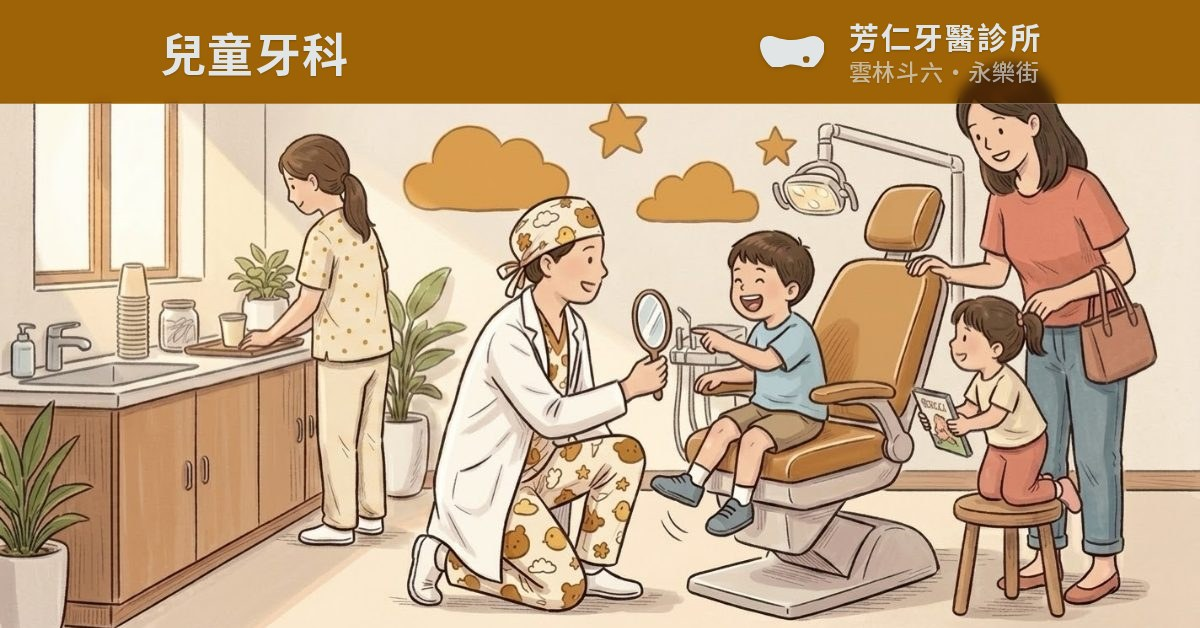
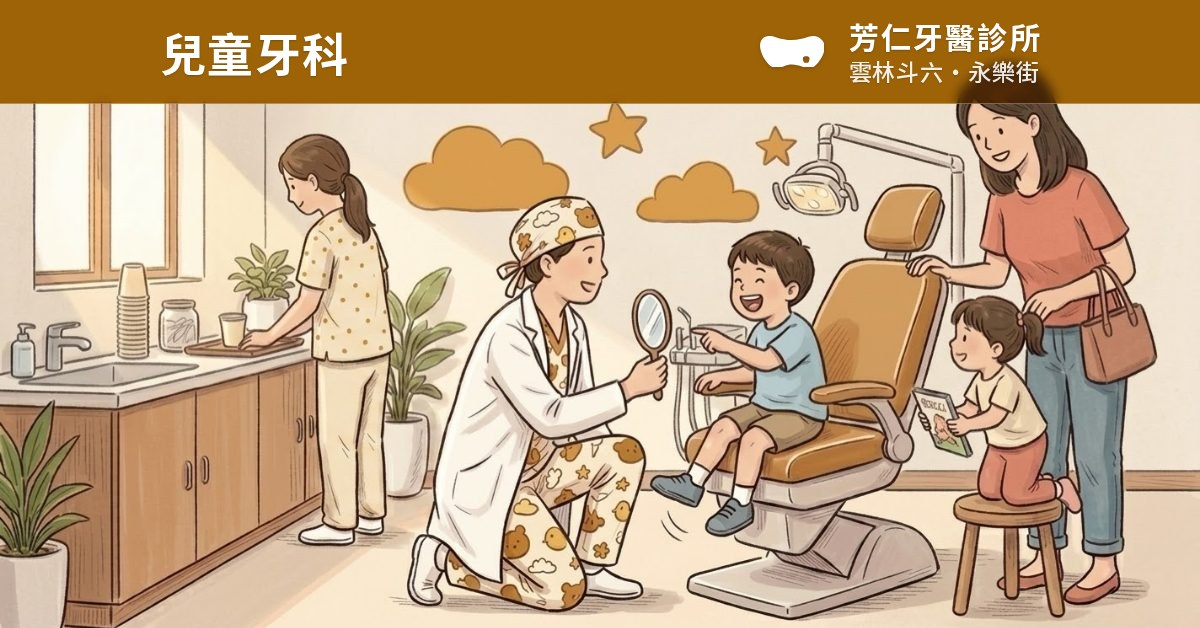
兒牙分享圖：帶子的字改純白（--fg/--locop 新參數，預設不變），主名對比 3.91→4.95、地名 2.49→4.33

Changed region(s): [[0.6167, 0.0303, 0.8633, 0.1513], [0.1233, 0.0303, 0.3083, 0.121]]

diff --git a/drafts/og-topic-kids-prompt.md b/drafts/og-topic-kids-prompt.md
@@ -418,6 +418,27 @@ multicoloured patterns; posters or charts on the wall; large empty white areas; 
 
 ---
 
+## 五之五、帶子上的字換成純白（2026-08-24，使用者：「帶子上的字灰灰的」）
+
+**成因是兩件，都量得出來：**
+
+1. **紙色 `#e2e5e6` 是偏冷的灰**（站上它是「紙」，底是白的所以看起來乾淨），
+   壓在暖琥珀的帶子上就讀成髒灰。主名對帶子只有 **3.91**。
+2. **地名那一行的不透明度只有 .65** —— 紙色 .65 疊在 `#9e6301` 上合成
+   `rgb(202,184,152)`，對帶子只有 **2.49**，是整條帶子最弱的一行。
+
+定案：**`--fg #ffffff` ＋ `--locop 0.9`** → 主名 **4.95**（過站上的 4.5）、地名 **4.33**。
+
+    node tools/og-plate.mjs kids --blend multiply --tintcolor '#c27a00' --ink 0.18 --blur 6 \
+      --loc full --locpos stack --fg '#ffffff' --locop 0.9
+
+⚠⚠ **這兩個參數是 2026-08-24 新加到 `tools/og-plate.mjs` 的，預設值沒有動** ——
+一般牙科／牙周／顯微根管那三張重跑照舊是紙色 .65／.72，**不要為了一致順手全改成白**：
+它們的帶子是綠、青綠、磚紅，紙色在那些底上不會發灰，而紙色是站上的顏色。
+**判準：帶子是暖色（琥珀、芥末、褐）就用純白；冷色與深色維持紙色。**
+
+---
+
 ## 六、交件前要過的門檻（圖回來之後我自己先跑，不過就重跑）
 
 | | 門檻 | 腳本 |
